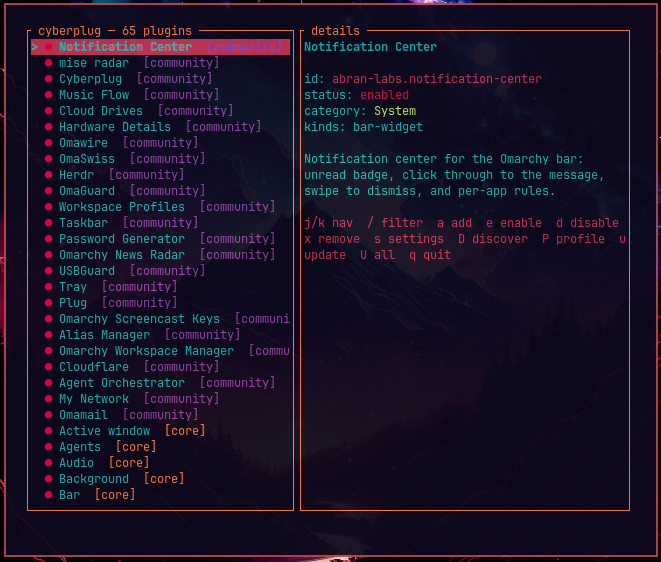
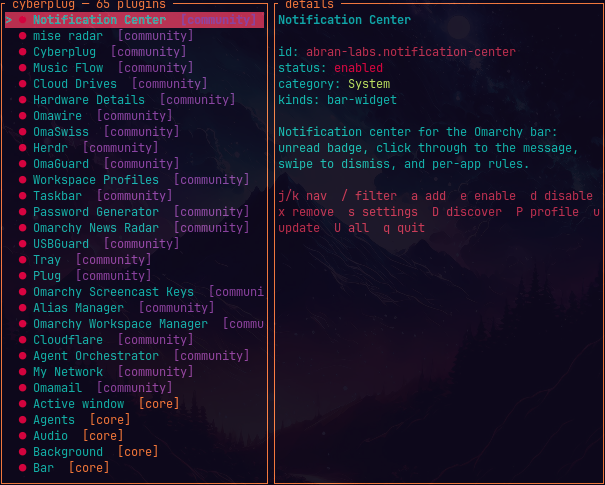
Crop preview.png's outer window-border bleed, shrink it in README
The screenshot's window decoration (a pink glow/crack border, plus a
transparent gap before the app's own orange frame) surrounded the actual
TUI content on all four sides. Cropped tight to the app's real frame
(from 661x562 down to 605x485) — same content, no more ugly margin.

Also render it smaller in the README (width=520 via <img>, was filling
the page at native size) while keeping the file at full resolution for
the marketplace card and anyone who clicks through.

Claude-Session: https://claude.ai/code/session_01E2CjBAKLJeCoitdU7S3rjR

Changed region(s): [[0.0, 0.0, 1.0, 1.0]]

diff --git a/README.md b/README.md
@@ -6,7 +6,7 @@ configure, and profile your plugins without leaving the keyboard.
 Ships as an Omarchy bar widget. One command installs the widget **and** the
 manager binary.
 
-![cyberplug main screen](preview.png)
+<img src="preview.png" alt="cyberplug main screen" width="520">
 
 ## Install
 
